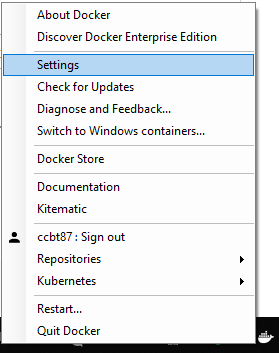
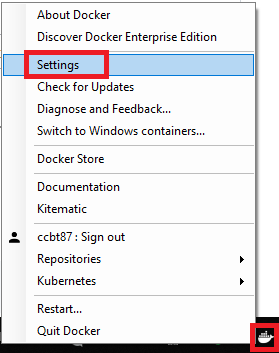
Update screenshots, add Phoenix

Changed region(s): [[0.086, 0.1246, 0.4014, 0.2493], [0.8889, 0.9037, 1.0, 0.9972]]

diff --git a/Dev_Env_setup/README.md b/Dev_Env_setup/README.md
@@ -1,6 +1,6 @@
 # Spark Local Development Environment Setup with Java and Maven
 
-> TMTOWTDI: Instructions may vary. This tutorial is based on following environment:
+> TMTOWTDI: Instructions may vary in different environment. This tutorial is based on following environment:
 * Windows 10 1803
 * JDK 8u112
 * IntelliJ IDEA 2018.2.4
@@ -111,6 +111,8 @@ Click on the download link that matches your OS
 1. From either the Downloads window of the browser, or from the file browser, double click the .dmg file to launch it.
 
 	A Finder window appears containing an icon of an open box and the name of the .pkg file.
+
+![JDK](images/1.2.1.PNG)
 
 2. Double click the package icon to launch the Install app.
 
@@ -365,9 +367,9 @@ Docker for Mac and Windows cannot route traffic to Linux containers. Use the fol
 * To connect to a container from the Mac or Windows, run the image using either one of the following commands and then use localhost:{port} to access the service in the container.
   * Use `-p` or `--publish` to publish ports on the container to specific ports on the host.
   ```
-	docker run --hostname aio --name aio -it -p 2181:2181 -p 4040:4040 -p 6667:6667 -p 7077:7077 -p 8080:8080 -p 8081:8081 -p 9042:9042 -p 9090:9090 -p 16000:16000 -p 16010:16010 -p 16020:16020 -p 16030:16030 -p 18080:18080 -p 40001-40011:40001-40011 ccbt87/aio
+	docker run --hostname aio --name aio -it -p 2181:2181 -p 4040:4040 -p 6667:6667 -p 7077:7077 -p 8080:8080 -p 8081:8081 -p 8765:8765 -p 9042:9042 -p 9090:9090 -p 16000:16000 -p 16010:16010 -p 16020:16020 -p 16030:16030 -p 18080:18080 -p 40001-40011:40001-40011 ccbt87/aio
   ```
-  * Use `-P` to exposes pre-defined ports on the container to random ports on the host. (Ports 2181 4040 6667 7077 8080 8081 9042 9090 16000 16010 16020 16030 18080 and 40001 to 40011 were defined in the Dockerfile when building this Docker image)
+  * Use `-P` to exposes pre-defined ports on the container to random ports on the host. (Ports 2181 4040 6667 7077 8080 8081 8765 9042 9090 16000 16010 16020 16030 18080 and 40001 to 40011 were defined in the Dockerfile when building this Docker image)
   ```
   docker run --hostname aio --name aio -it -P ccbt87/aio
   ```
@@ -650,9 +652,11 @@ https://docs.datastax.com/en/cassandra/3.0/cassandra/configuration/secureJmxAuth
 
 https://hbase.apache.org/metrics.html
 
+https://github.com/wurstmeister/kafka-docker/wiki#why-do-kafka-tools-fail-when-jmx-is-enabled
+
 ## Appendix
 ### Appendix A - Docker Image Info
-Following components were included in the Docker image `ccbt87/aio`:
+Following components were included in the latest Docker image `ccbt87/aio`:
 
 | Component | Version | Binary Location | Port |
 | --- | --- | --- | --- |
@@ -662,6 +666,7 @@ Following components were included in the Docker image `ccbt87/aio`:
 | Zookeeper* | 3.4.10 | | Client Port 2181 |
 | Cassandra | 3.11.3 | /opt/apache-cassandra-3.11.3 | Client Port 9042 |
 | NiFi | 1.7.0 | /opt/nifi-1.7.0 | Web UI 9090 |
+| Phoenix Query Server | 5.0.0 | apache-phoenix-5.0.0-HBase-2.0-bin | Listener 8765 |
 
 This Docker image uses the Oracle JDK version: 1.8.0_112 (JAVA_HOME=/opt/jdk1.8.0_112)
 
@@ -693,7 +698,7 @@ Supply two arguments will first try to disable and drop the specified table name
 ```
 
 ### Appendix B - Known Issues
-#### 1. Components Stop Working After the Docker Container or the Host Restarts
+#### 1. Components May Stop Working After the Docker Container or the Host Restarts
 
 ##### Symptom
 
@@ -719,6 +724,6 @@ None
 
 2. Add `--rm` option when running the Docker image
 ```
-docker run --hostname aio --name aio --rm -it -p 2181:2181 -p 4040:4040 -p 6667:6667 -p 7077:7077 -p 8080:8080 -p 8081:8081 -p 9042:9042 -p 9090:9090 -p 16000:16000 -p 16010:16010 -p 16020:16020 -p 16030:16030 -p 18080:18080 -p 40001-40011:40001-40011 ccbt87/aio
+docker run --hostname aio --name aio --rm -it -p 2181:2181 -p 4040:4040 -p 6667:6667 -p 7077:7077 -p 8080:8080 -p 8081:8081 -p 8765:8765 -p 9042:9042 -p 9090:9090 -p 16000:16000 -p 16010:16010 -p 16020:16020 -p 16030:16030 -p 18080:18080 -p 40001-40011:40001-40011 ccbt87/aio
 ```
 > NOTE: With the `--rm` flag Docker will remove the container when it exits. Make sure to backup the data in the container if there is any.
